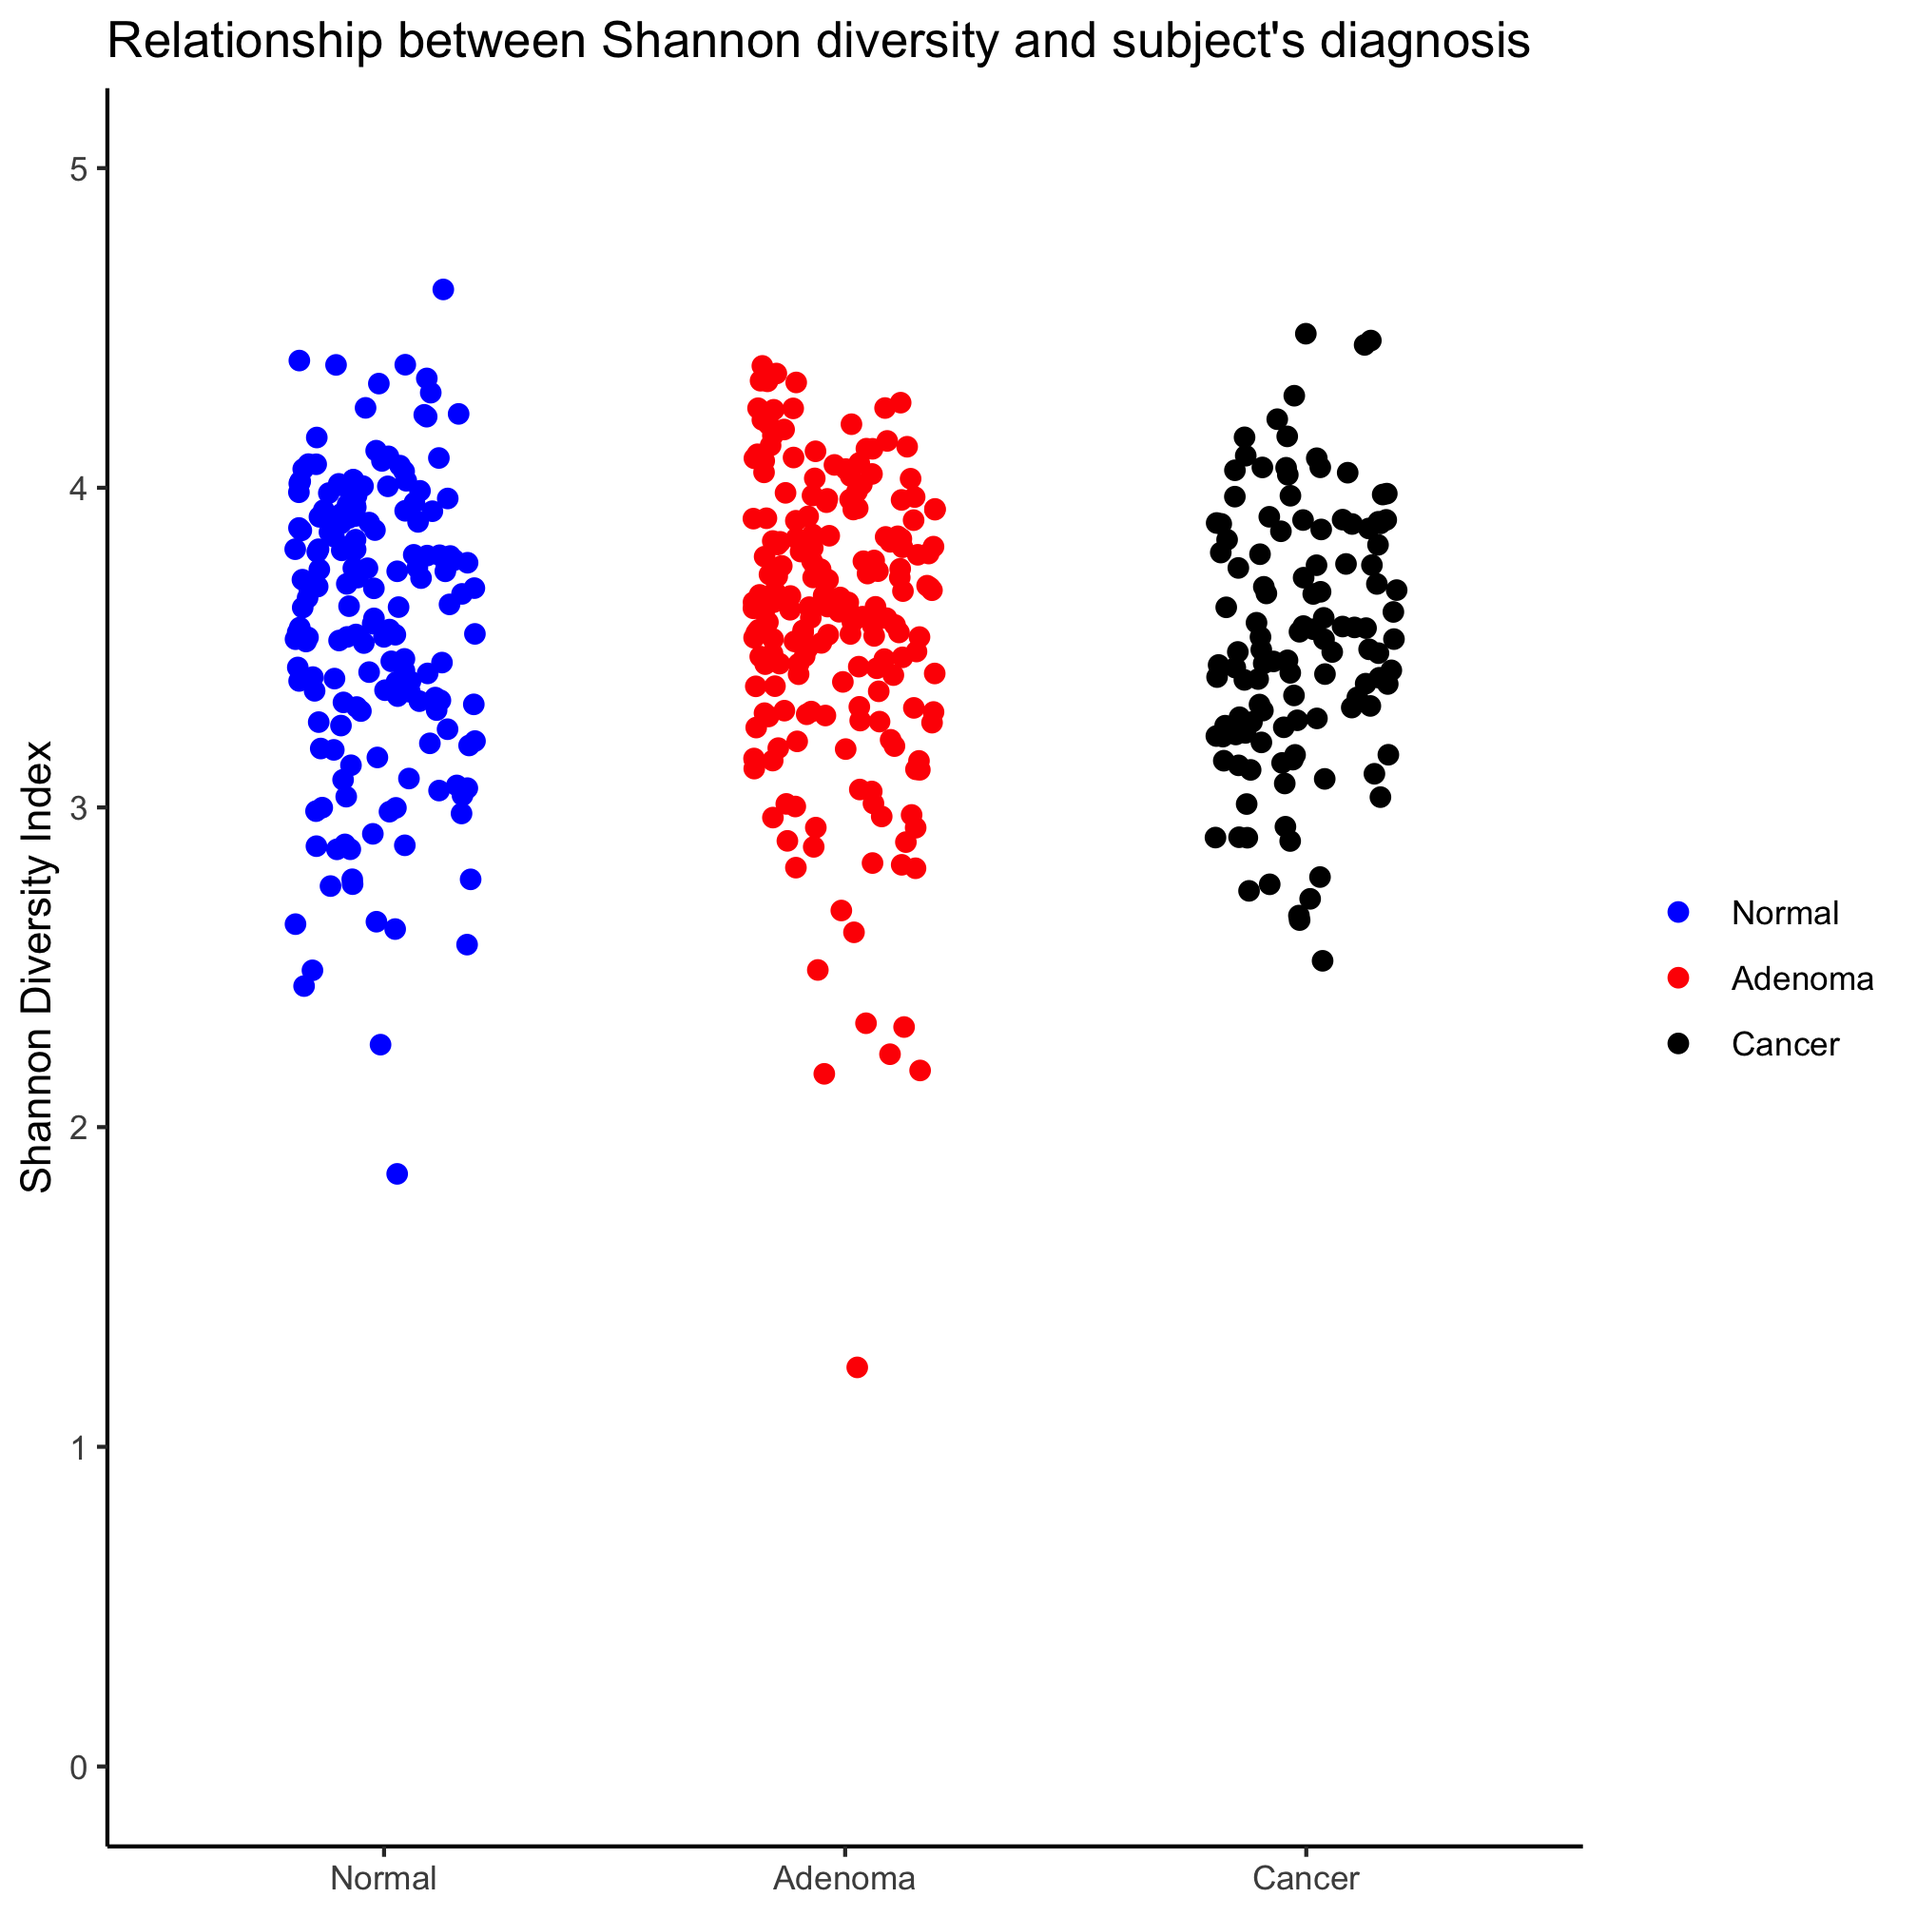
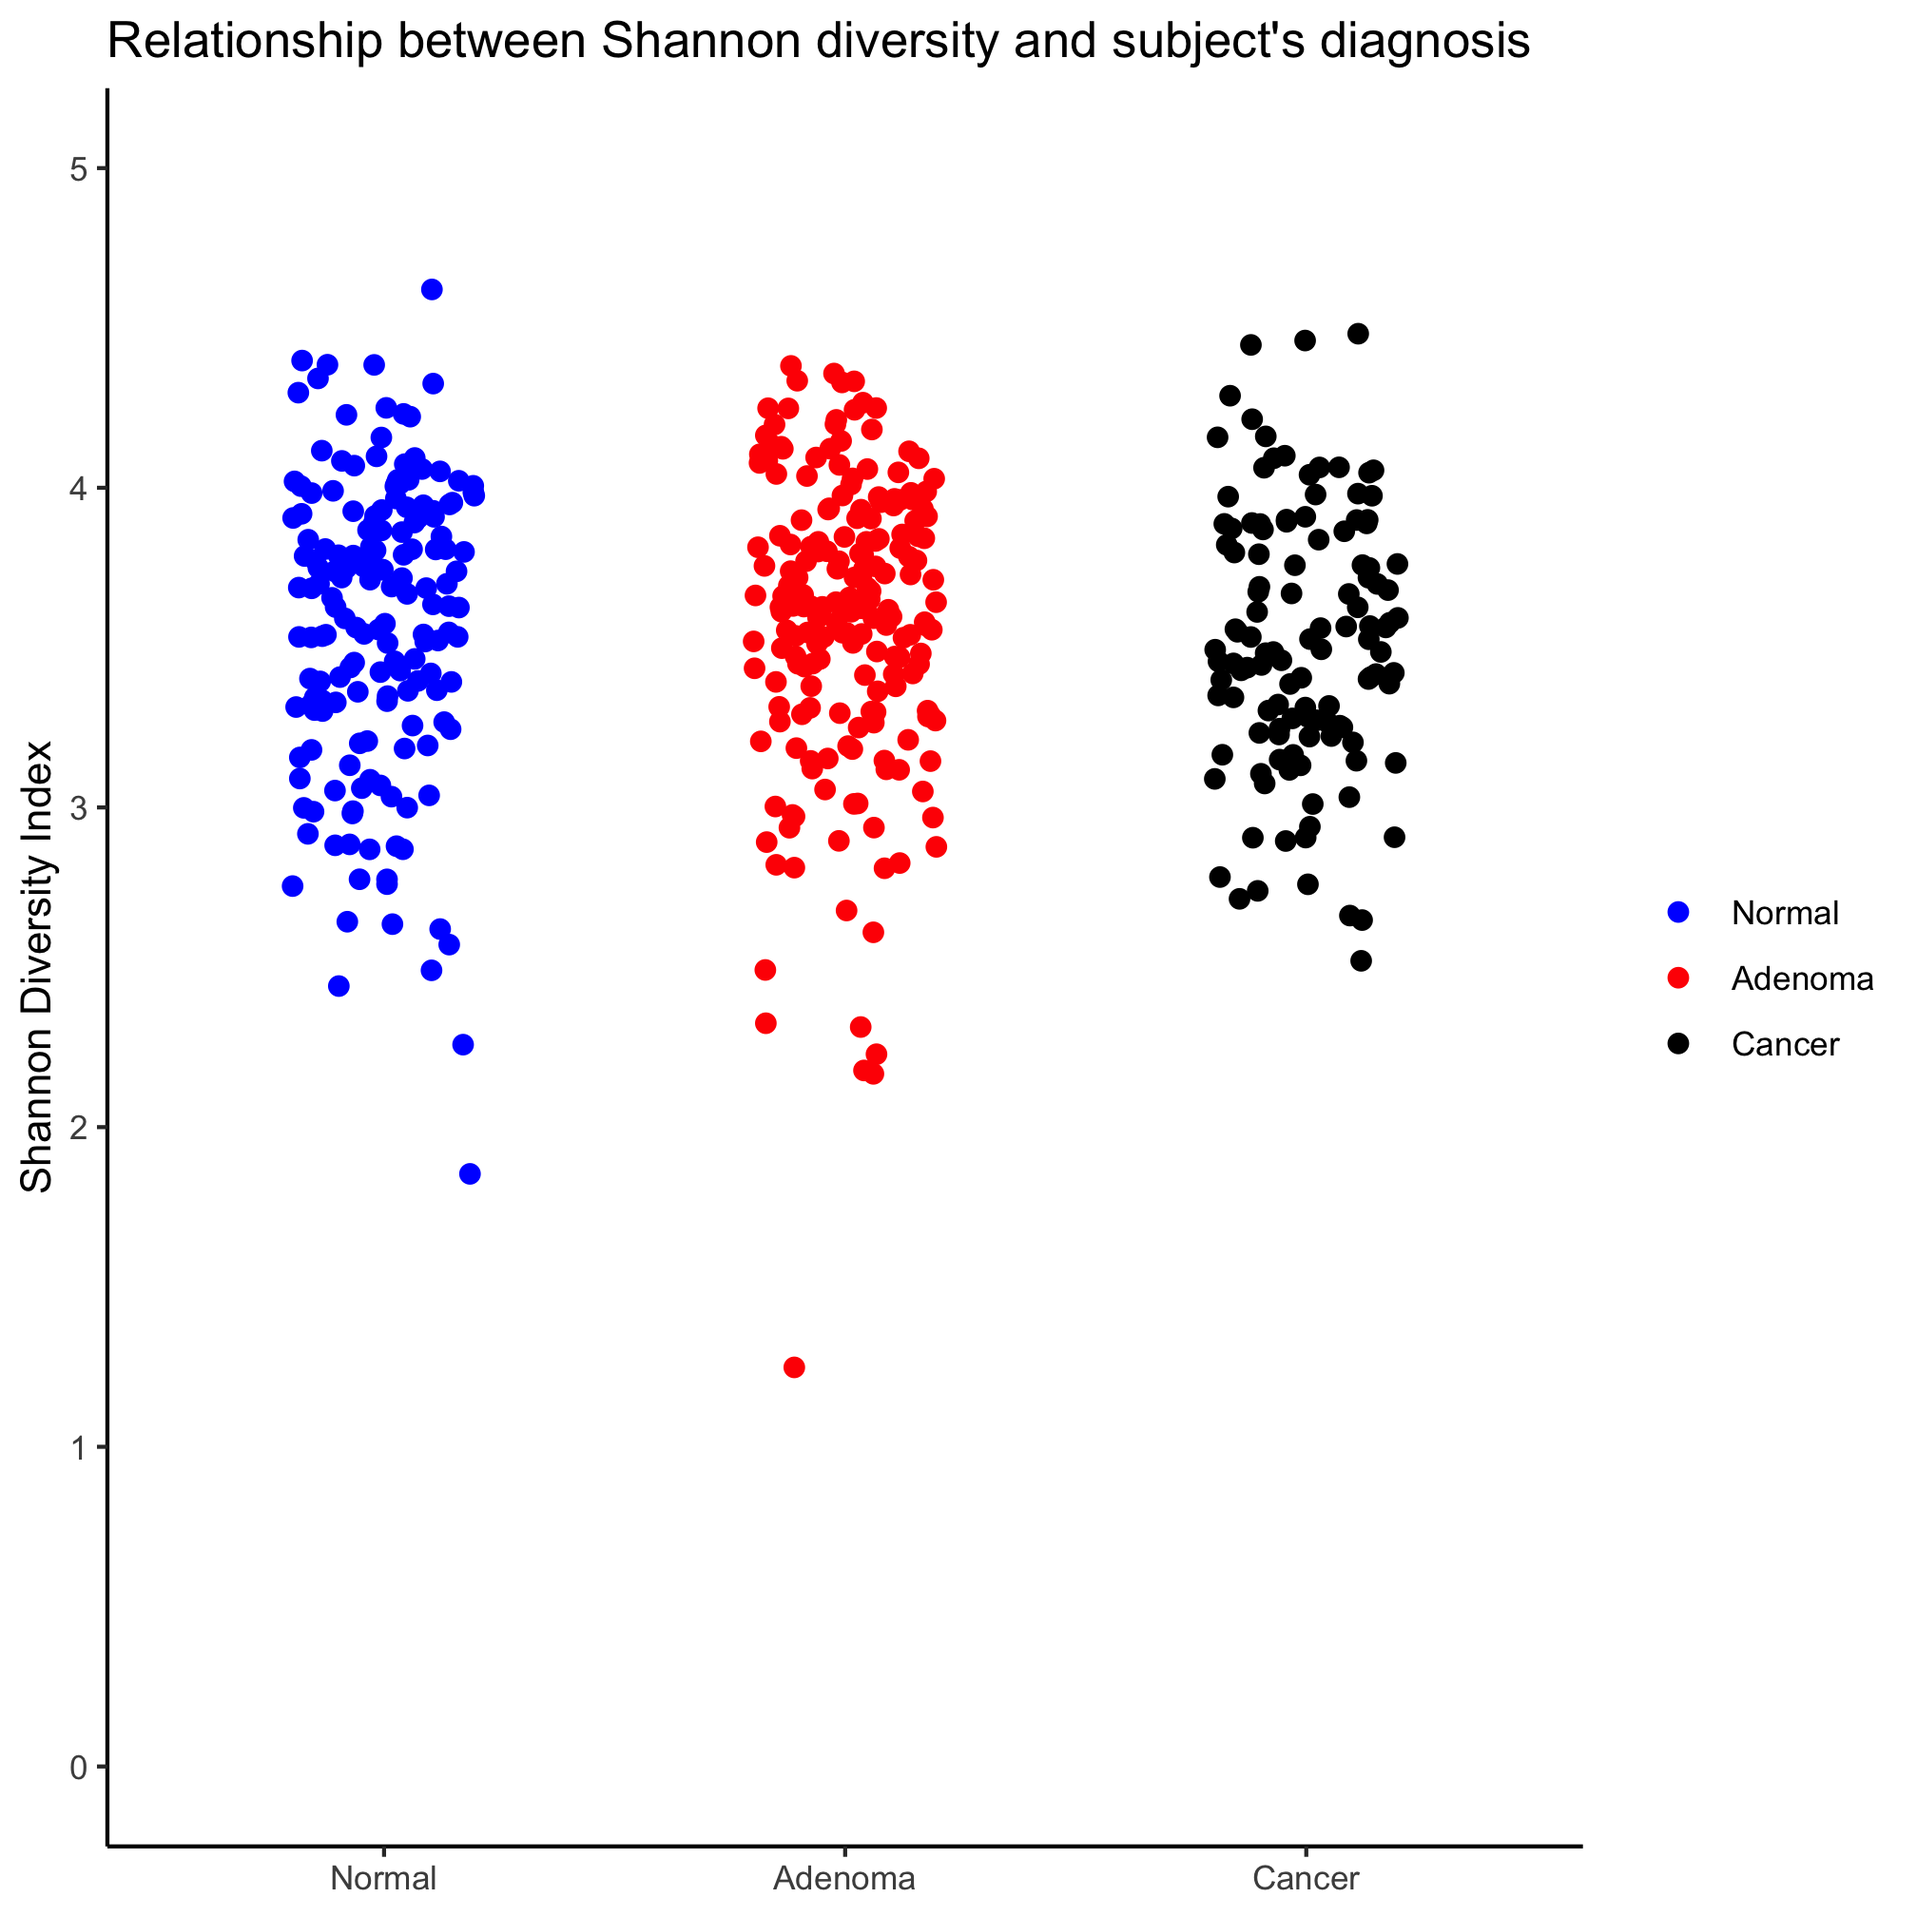
Remove position argument from boxplot/jitter plot

diff --git a/06_continuous_categorical.md b/06_continuous_categorical.md
@@ -285,7 +285,7 @@ In this case, the notches extend to 1.58 times the difference between the 25th a
 ```r
 ggplot(meta_alpha, aes(x=diagnosis, y=fit_result, color=diagnosis)) +
 	geom_boxplot(outlier.shape=NA) +
-	geom_jitter(shape=19, position=position_jitterdodge(jitter.width=0.75)) +
+	geom_jitter(shape=19)+
 	scale_color_manual(name=NULL,
 		values=c("blue", "red", "black"),
 		breaks=c("normal", "adenoma", "cancer"),
